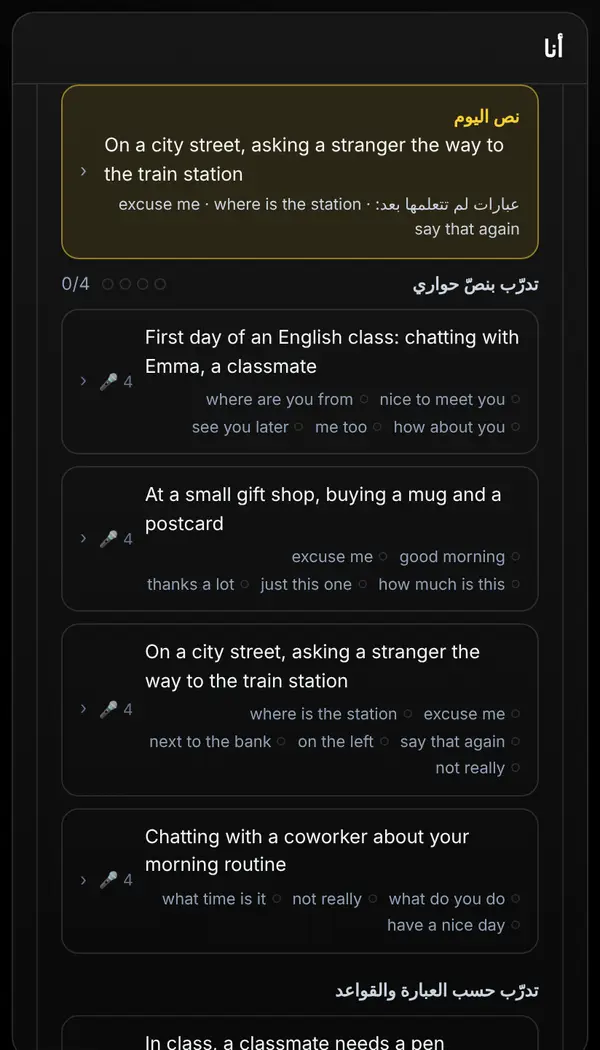
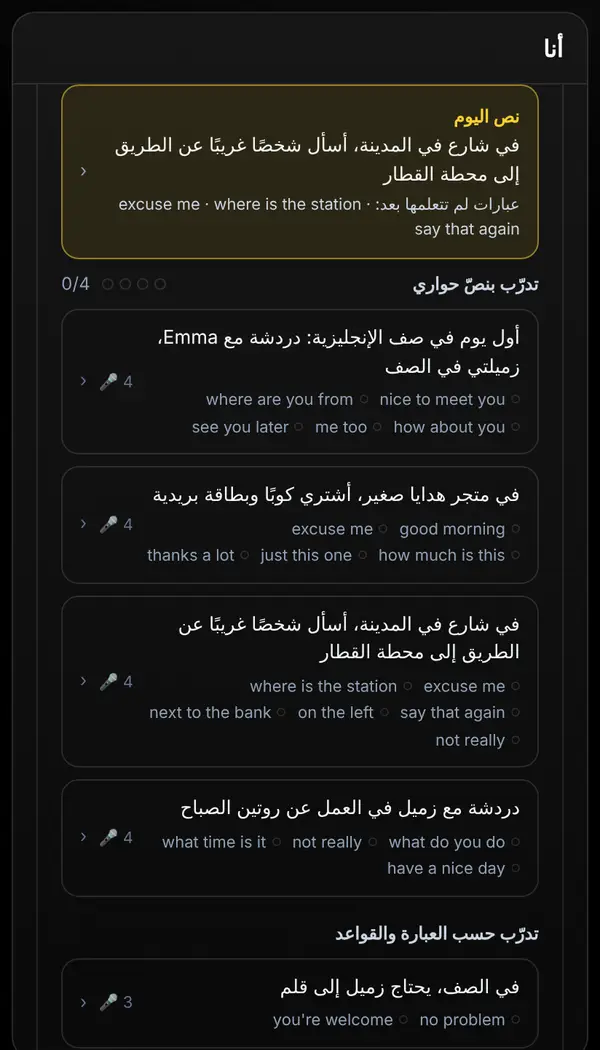
2.76 새로워진 점 그림 14개 언어(옮긴 뜻풀이로 다시), 사용법 my.map 그림 = 대본 목록
Claude-Session: https://claude.ai/code/session_01JGFYjqkDSjjkCuf2w7CSMx

diff --git a/src/lib/guide/content.ts b/src/lib/guide/content.ts
@@ -180,7 +180,7 @@ export const GUIDE_KO: Guide = {
           "아래 ‘{ui:stageExamplesTitle}’에서 그 단계로 되는 대화를 보고 ‘{ui:stageTry}’로 해 봐요.",
           "단계 맨 위 ‘{ui:stageScriptsTitle}’: 대본을 들으면 내 줄에서 멈춰요. 보는 방식(‘{ui:scriptModeShadow}’·‘{ui:scriptModeHint}’·‘{ui:scriptModeHide}’·‘{ui:scriptModeOwn}’)을 고르고 🎤로 말해요. 따라 말하기 말고 다른 방식으로 내 줄을 모두 맞히면 그 대본은 통과 — 다음 단계는 네 갈래 70%와 그 단계 대본을 모두 통과한 것이 함께 있어야 열려요. 3~4단계 상대 말은 할 때마다 조금 바뀌고, 5단계는 대본 뒤 ‘{ui:scriptCall}’로 같은 상황을 통화로. 대본마다 그 단계 핵심 표현이 붙어 있고, 통과하면 그 표현이 표현 갈래에 쌓여요. 상황 대본에 없는 표현은 아래 ‘{ui:scriptsByExpression}’의 짧은 대본으로. 맨 위 ‘{ui:scriptTodayTitle}’은 최근 튜터가 짚은 문법과 아직 안 익힌 표현을 보고 고른 대본이에요. 아래 ‘{ui:framesTitle}’은 빈칸 하나 있는 문장 틀이에요. 빈칸만 바꿔 네 번 말하고, ‘{ui:frameModeBlank}’으로 다 맞히면 통과 — 끝나면 그 틀이 나오는 대본으로 이어 가요3단계부터는 ‘{ui:scriptModeOwn}’로 빈칸에 내 이야기를 넣어 말해요(1~3단계). 튜터가 2주 안에 같은 틀을 두 번 고치면 대본 목록 맨 위에 ◐ ‘{ui:frameRedo}’ 카드가 떠요 — 내가 쓴 줄과 고친 줄을 보고 그 틀을 다시 말해요.",
         ],
-        shot: "stage-parts",
+        shot: "stage-scripts",
       },
       {
         heading: "8. 노트",
@@ -611,7 +611,7 @@ export const GUIDE_EN: Guide = {
           "Below, ‘{ui:stageExamplesTitle}’ shows conversations this stage makes possible; try one with ‘{ui:stageTry}’.",
           "‘{ui:stageScriptsTitle}’ at the top of each stage: the script plays and stops at your line. Pick a way to see it (‘{ui:scriptModeShadow}’, ‘{ui:scriptModeHint}’, ‘{ui:scriptModeHide}’, ‘{ui:scriptModeOwn}’) and say it with 🎤. Get every line of yours right in any way other than shadowing and the script is passed — the next stage opens once the four areas reach 70% and all scripts of the stage are passed. At stages 3–4 the other person's lines change a little each time; at stage 5, ‘{ui:scriptCall}’ plays the same situation as a call. Each script lists the stage's key phrases it uses; passing it adds them to the phrases area. Phrases no situation script uses get short scripts under ‘{ui:scriptsByExpression}’. ‘{ui:scriptTodayTitle}’ at the top is picked from the grammar your tutor corrected lately and the phrases you haven't learned yet. Below, ‘{ui:framesTitle}’ gives sentence patterns with one blank. Say four sentences that change only the blank; get them all right in ‘{ui:frameModeBlank}’ to pass, then carry on into scripts that use the pattern From stage 3, ‘{ui:scriptModeOwn}’ lets you fill the blank with your own story (stages 1–3). When the tutor corrects the same pattern twice in two weeks, a ◐ ‘{ui:frameRedo}’ card appears at the top of the scripts: see your line and the fix, then say the pattern again.",
         ],
-        shot: "stage-parts",
+        shot: "stage-scripts",
       },
       {
         heading: "8. Notes",
